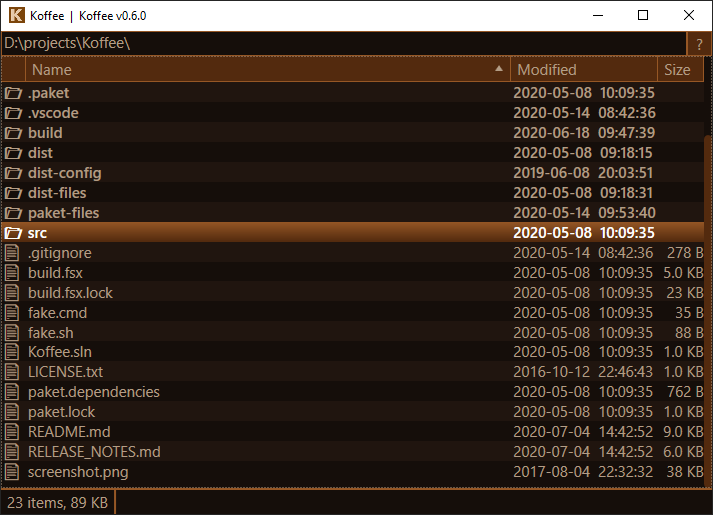
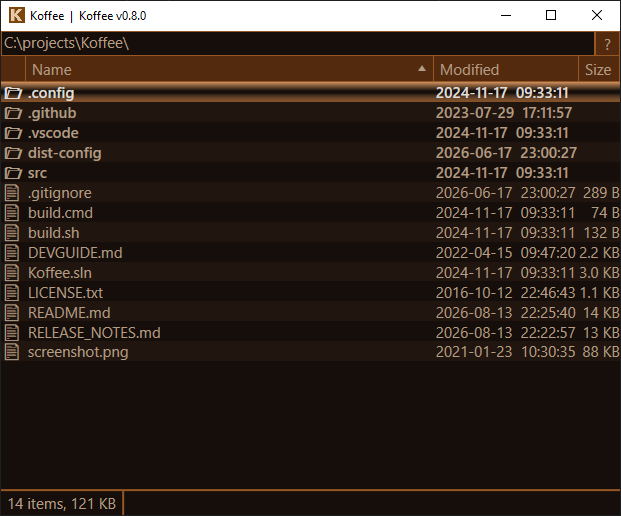
Updates release notes and screenshot

Changed region(s): [[0.0, 0.0, 1.0, 0.9942], [0.8873, 0.0, 0.9179, 0.0311]]

diff --git a/README.md b/README.md
@@ -160,7 +160,7 @@ Tool Arguments may contain pre-defined variables, surrounded in braces, which ar
     - `{env:ENVIRONMENT_VARIABLE}`
 - **Optional argument**: Surround a variable and prefix/suffix arguments in brackets `[ ]` to make it optional and only included if the variable has a value when executed.
     - Example: `[--select {selected_files}]`
-- **Fallback variables**: Add `?` and another variable name to use if the first variable does not have a value when executed. You can multiple fallback variables.
+- **Fallback variables**: Add `?` and another variable name to use if the first variable does not have a value when executed. You can add multiple fallback variables.
     - Example: `{env:REPO_PATH?git_root?location}`
 - **Override delimiter**: The `selected_*` variables delimit items with a space character. This can be changed by adding colon and desired separator.
     - Example: `{selected_items:,}`

diff --git a/RELEASE_NOTES.md b/RELEASE_NOTES.md
@@ -1,6 +1,6 @@
 # Release Notes
 
-### 0.8.0  Configure Key Bindings and External Tools (WIP)
+### 0.8.0  Configure Key Bindings and External Tools (2026-08-13)
 - #16 Adds configurable Tools feature, replacing built-in terminal and text editor commands with equivalent Tools
 - #137 Adds key binding editor
 - #151 Moves next undo/redo actions to separate bar, adds setting to toggle showing it
